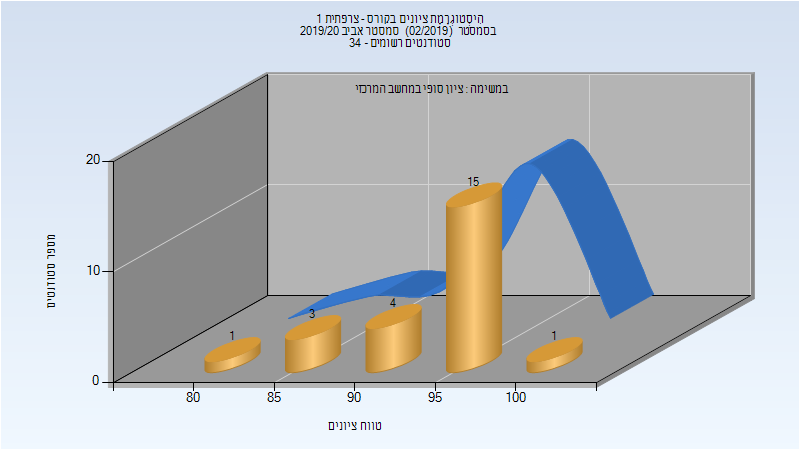
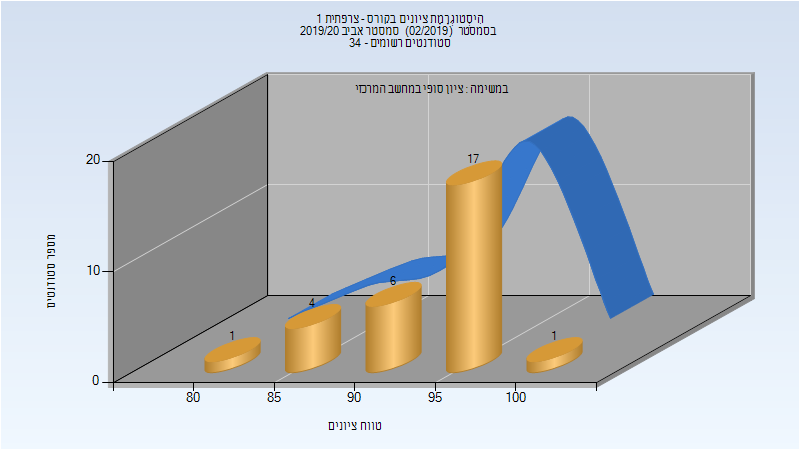
Deploy michael-maltsev/technion-histograms to github.com/michael-maltsev/technion-histograms.git:gh-pages

diff --git a/324608/index.html b/324608/index.html
@@ -477,13 +477,13 @@
 </thead>
 <tbody>
 <tr>
-<td>24</td>
-<td>24/0</td>
+<td>29</td>
+<td>29/0</td>
 <td>100</td>
 <td>82</td>
 <td>100</td>
-<td>94.583</td>
-<td>97.5</td>
+<td>94.345</td>
+<td>95</td>
 </tr>
 </tbody>
 </table>

diff --git a/106156/index.html b/106156/index.html
@@ -652,13 +652,13 @@
 </thead>
 <tbody>
 <tr>
-<td>49</td>
-<td>49/0</td>
+<td>50</td>
+<td>50/0</td>
 <td>100</td>
 <td>55</td>
 <td>100</td>
-<td>87.061</td>
-<td>89</td>
+<td>86.92</td>
+<td>88.5</td>
 </tr>
 </tbody>
 </table>

diff --git a/324608/README.md b/324608/README.md
@@ -146,5 +146,5 @@
 
 | סטודנטים | עברו/נכשלו | אחוז עוברים | ציון מינימלי | ציון מקסימלי | ממוצע | חציון |
 | ---- | ---- | ---- | ---- | ---- | ---- | ---- |
-| 24 | 24/0 | 100 | 82 | 100 | 94.583 | 97.5 |
+| 29 | 29/0 | 100 | 82 | 100 | 94.345 | 95 |
 

diff --git a/106156/README.md b/106156/README.md
@@ -201,5 +201,5 @@
 
 | סטודנטים | עברו/נכשלו | אחוז עוברים | ציון מינימלי | ציון מקסימלי | ממוצע | חציון |
 | ---- | ---- | ---- | ---- | ---- | ---- | ---- |
-| 49 | 49/0 | 100 | 55 | 100 | 87.061 | 89 |
+| 50 | 50/0 | 100 | 55 | 100 | 86.92 | 88.5 |
 
